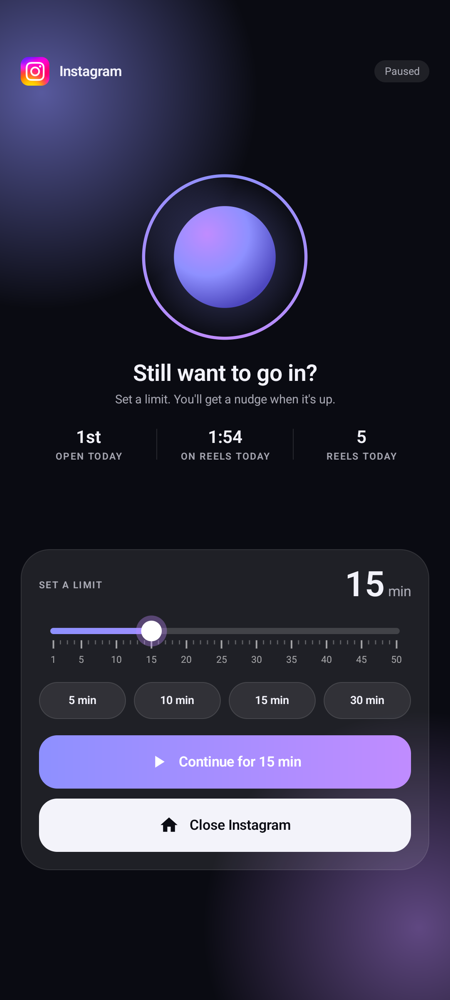
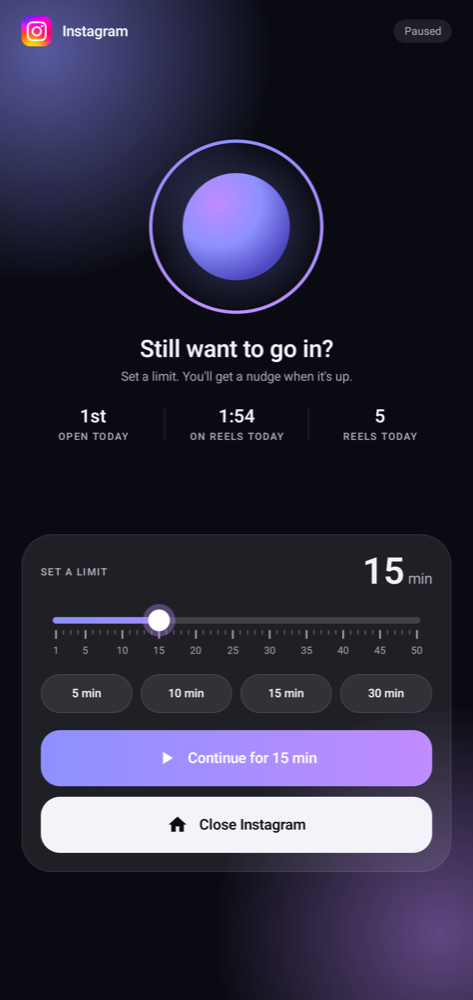
README: screenshots of the pause screen and home

diff --git a/README.md b/README.md
@@ -32,6 +32,19 @@ Instagram is built to keep you scrolling, and Android's own tools don't help muc
 
 ReelRein sits next to Instagram and fixes all four. It has **no internet permission at all**, so nothing it sees can leave your phone.
 
+## Screenshots
+
+<table>
+<tr>
+<td width="50%"><img src="docs/images/pause-screen.png" alt="Pause screen: breathing ring, today's opens, time on reels and reels, and the Set a limit card with a 1 to 50 minute ruler"></td>
+<td width="50%"><img src="docs/images/home.png" alt="ReelRein home: protection status, today's time on reels, reels, time in Instagram and opens, and a 7-day chart"></td>
+</tr>
+<tr>
+<td><sub><b>Pause screen:</b> breathe, see today's numbers, then set a limit or close Instagram.</sub></td>
+<td><sub><b>Home:</b> protection status, today at a glance, the last 7 days.</sub></td>
+</tr>
+</table>
+
 ## Highlights
 
 | | |
